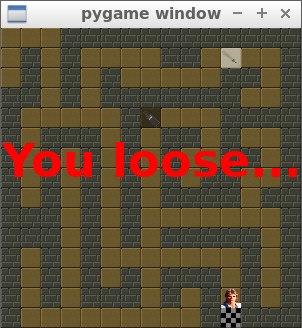
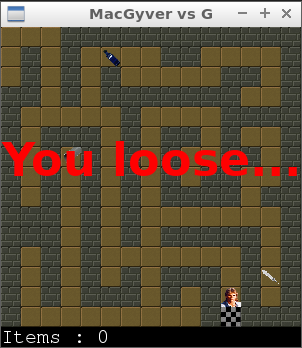
update of the documentation

diff --git a/doc/projet_3.md b/doc/projet_3.md
@@ -64,24 +64,24 @@ Je vais faire une fonction qui lit le fichier *map* et remplis un tableau à 2 d
 
 Ce tableau sera mis à jour en fonction des événements et permettra de rafraichir l'affichage.
 
-je vais gérer MacGyver, le garde et les diférents éléments en tant qu'objets.
+je vais gérer MacGyver, le garde et les différents éléments en tant qu'objets.
 
 * MacGyver : il aura une position, une liste d'objets possédés ou pas.
 
-* le Garde : il a une position et un status d'affichage.
+* le Garde : il a une position et un statuts  d'affichage.
 
-* les éléments à récupérer : ils ont une position qui doit être définie aléatoirement sur les cases de chemin, ils ont un status d'affichage si ils ont été récupérés.
+* les éléments à récupérer : ils ont une position qui doit être définie aléatoirement sur les cases de chemin, ils ont un statuts  d'affichage si ils ont été récupérés.
 
 * la sortie : elle a une position.
 
-il y a des caractéristiques qui se répètent comme la position et le status d'affichage, je peut essayer de créer une class commune et hériter de cette classe pour faire MacGyver auquel je rajouterai une methode de déplacement (redéfinir la position).
+il y a des caractéristiques qui se répètent comme la position et le statuts  d'affichage, je peut essayer de créer une class commune et hériter de cette classe pour faire MacGyver auquel je rajouterai une méthode de déplacement (redéfinir la position).
 
 Le positionnement aléatoire sera géré en dehors de l'objet.
 
-la position du garde, de la sortie et la position initiale de MacGyvers sont définies dans *map* il faut donc que je récupére les coordonnées lors de la lecture du fichier map. Les objets concernés devront avoir été créé avant.
+La position du garde, de la sortie et la position initiale de MacGyvers sont définies dans *map* il faut donc que je récupère les coordonnées lors de la lecture du fichier map. Les objets concernés devront avoir été créé avant.
 
 donc pour résumer:
-1. création de la fenétre
+1. création de la fenêtre
 2. création des objets avec la définition de leur image
 4. lecture de *map* pour le remplissage du tableau de 15×15
 5. attribution des positions aux objets positionnés par *map*
@@ -90,7 +90,7 @@ donc pour résumer:
     * lecture des events de déplacement de MacGyver
     * vérification si le mouvement est possible
     * mise à jour de la position
-    * si position commune avec un élément alors mise á jour de l'inventaire et du status d'affichage
+    * si position commune avec un élément alors mise á jour de l'inventaire et du statuts d'affichage
     * si position commune avec le garde, vérification de l'inventaire, soit afficher un message perdu, soit faire disparaitre le garde
     * si position commune avec la sortie, afficher le message de victoire
 
@@ -98,21 +98,21 @@ je vais utiliser le fichier floor-tiles-20x20.png pour faire le décor
 
 ![floor-tiles-20x20.png](floor-tiles-20x20.png)
 
-ma fenêtre fera donc 15 × 20 = 300 px de côtés
+ma fenêtre fera donc 15 × 20 = 300 px de côtés (je vais devoir rajouter plus tard 20px en hauteur pour compter les items)
 
 Je vais devoir utiliser la méthode [SpriteSheet](https://www.pygame.org/wiki/Spritesheet) pour utiliser cette ressource
 
 ![etape1](etape1_window.png)
 
-je créé une classe **Mappy** pour gerer le tableau. Elle lit le fichier *map* et permet de manipuler les éléments du tableau du même nom (cacher et déplacer des élements)
+je créé une classe **Mappy** pour gerer le tableau. Elle lit le fichier *map* et permet de manipuler les éléments du tableau Mappy.mappy (cacher et déplacer des éléments)
 
 ![avec les items](items.png)
 
-le classe **Display** sert a afficher les éléments graphiques. Elle contient les constantes avec les images sélectionnées. Il y a 2 types de ressources, les images simples qu'il faut redimensionner et les sprites où il faut selectionner juste une partie d'une image plus grande.
+le classe **Display** sert à afficher les éléments graphiques. Elle contient les constantes avec les images sélectionnées. Il y a 2 types de ressources, les images simples qu'il faut redimensionner et les sprites où il faut sélectionner juste une partie d'une image plus grande. J'ai rajouté après coup le compteur d'inventaire.
 
 la classe **Angus** gère l'inventaire de MacGyver et le déplacement dans *map*
 
-Le programme principal fait une loop et surveille les appuis des touches pour déplacer MacGyver. Il y a des tests pour vérifier la récupération des objets et les règles du jeu
+Le programme principal fait une loop et surveille les appuis des touches pour déplacer MacGyver. Il y a des tests pour vérifier la récupération des objets et les règles du jeu.
 
 ![c'est gagné](win.png)
 ![c'est perdu](loose.png)

diff --git a/README.md b/README.md
@@ -34,7 +34,7 @@ if you want to try:
 
 ## How to play
 
-![THE game](doc/items.png)
+![THE game](doc/present.png)
 
 Use arrow keys to move MacGyver
 
